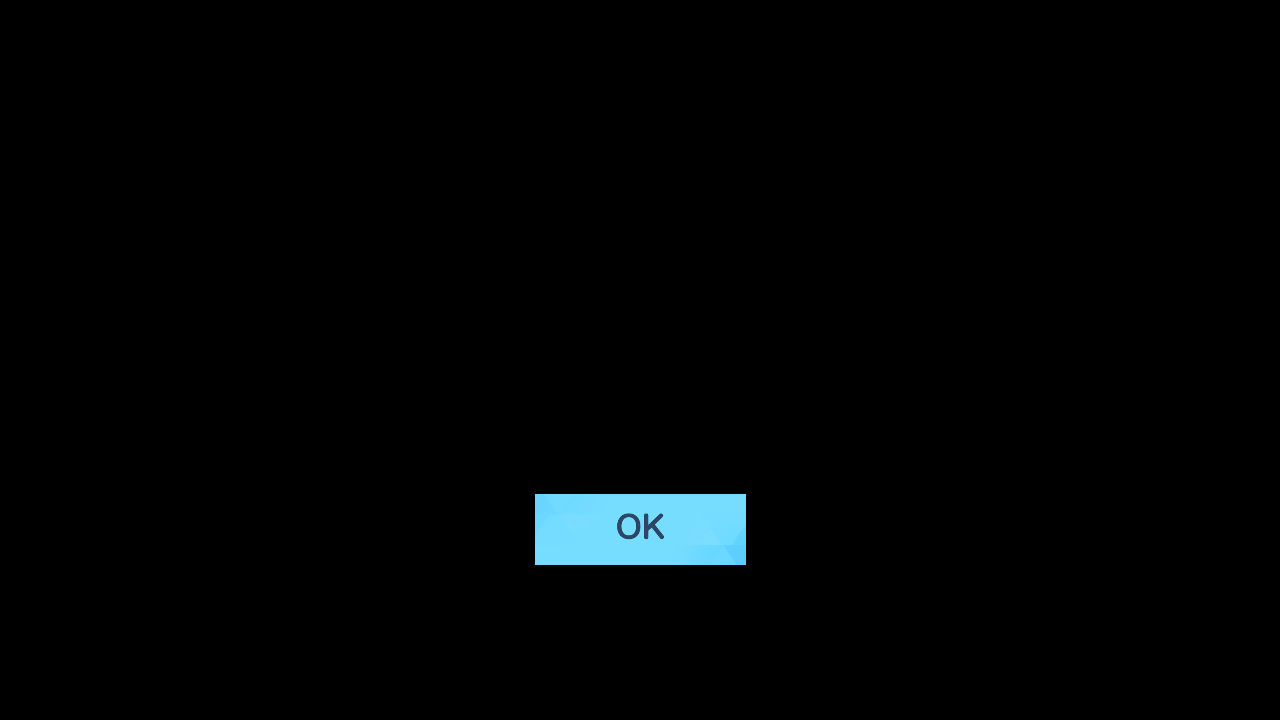
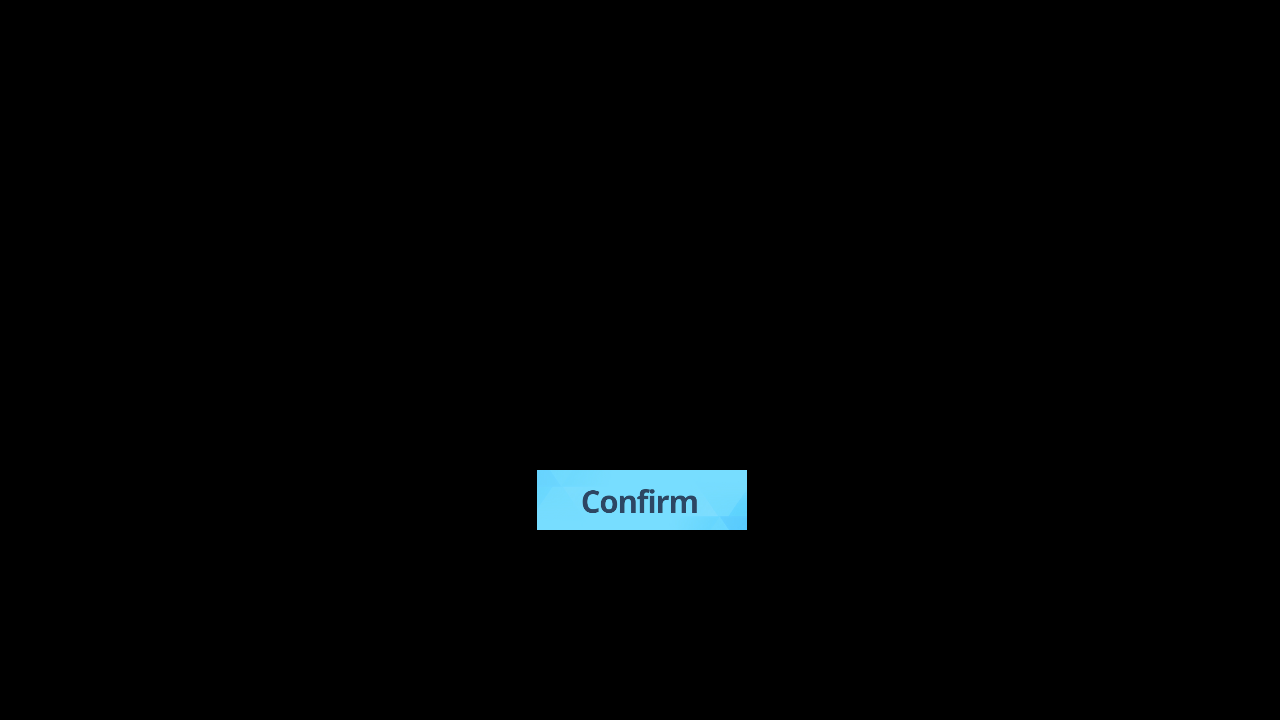
added more popup pages

Changed region(s): [[0.4062, 0.6417, 0.5938, 0.7944]]

diff --git a/tasks/base/assets/assets_base_popup.py b/tasks/base/assets/assets_base_popup.py
@@ -31,10 +31,10 @@ AP_EXCEED = ButtonWrapper(
     ),
     en=Button(
         file='./assets/en/base/popup/AP_EXCEED.png',
-        area=(610, 124, 669, 153),
-        search=(590, 104, 689, 173),
-        color=(139, 153, 168),
-        button=(535, 494, 746, 565),
+        area=(583, 138, 693, 178),
+        search=(563, 118, 713, 198),
+        color=(197, 205, 212),
+        button=(537, 470, 747, 530),
     ),
 )
 DAILY_NEWS = ButtonWrapper(
@@ -120,6 +120,28 @@ GET_REWARD_SKIP = ButtonWrapper(
         search=(1117, 14, 1263, 85),
         color=(197, 200, 205),
         button=(1137, 34, 1243, 65),
+    ),
+)
+INSUFFICIENT_INVENTORY = ButtonWrapper(
+    name='INSUFFICIENT_INVENTORY',
+    jp=None,
+    en=Button(
+        file='./assets/en/base/popup/INSUFFICIENT_INVENTORY.png',
+        area=(578, 117, 703, 152),
+        search=(558, 97, 723, 172),
+        color=(202, 209, 216),
+        button=(578, 117, 703, 152),
+    ),
+)
+INSUFFICIENT_INVENTORY_BUTTON = ButtonWrapper(
+    name='INSUFFICIENT_INVENTORY_BUTTON',
+    jp=None,
+    en=Button(
+        file='./assets/en/base/popup/INSUFFICIENT_INVENTORY_BUTTON.png',
+        area=(535, 502, 747, 560),
+        search=(515, 482, 767, 580),
+        color=(109, 205, 239),
+        button=(535, 502, 747, 560),
     ),
 )
 ITEM_EXPIRED = ButtonWrapper(

diff --git a/tasks/login/assets/assets_login.py b/tasks/login/assets/assets_login.py
@@ -37,6 +37,28 @@ LOGIN_LOADING = ButtonWrapper(
         button=(34, 682, 60, 707),
     ),
 )
+SURVEY = ButtonWrapper(
+    name='SURVEY',
+    jp=None,
+    en=Button(
+        file='./assets/en/login/SURVEY.png',
+        area=(946, 269, 994, 307),
+        search=(926, 249, 1014, 327),
+        color=(211, 223, 166),
+        button=(946, 269, 994, 307),
+    ),
+)
+SURVEY_BUTTON = ButtonWrapper(
+    name='SURVEY_BUTTON',
+    jp=None,
+    en=Button(
+        file='./assets/en/login/SURVEY_BUTTON.png',
+        area=(1199, 6, 1264, 75),
+        search=(1179, 0, 1280, 95),
+        color=(140, 204, 240),
+        button=(1199, 6, 1264, 75),
+    ),
+)
 UPDATE = ButtonWrapper(
     name='UPDATE',
     jp=Button(
